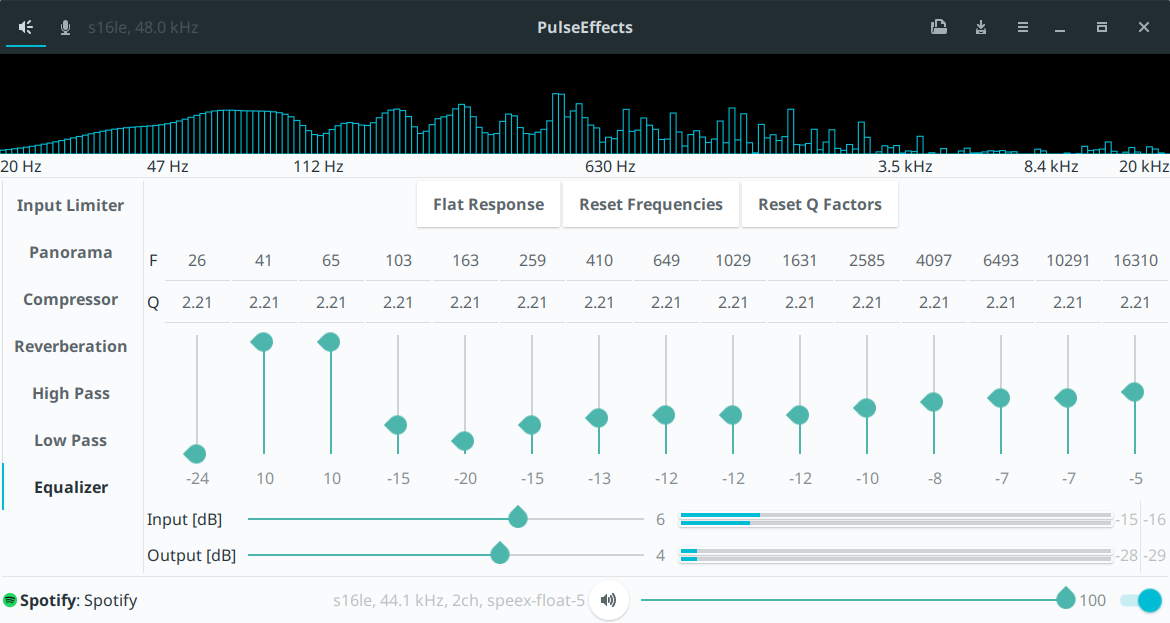
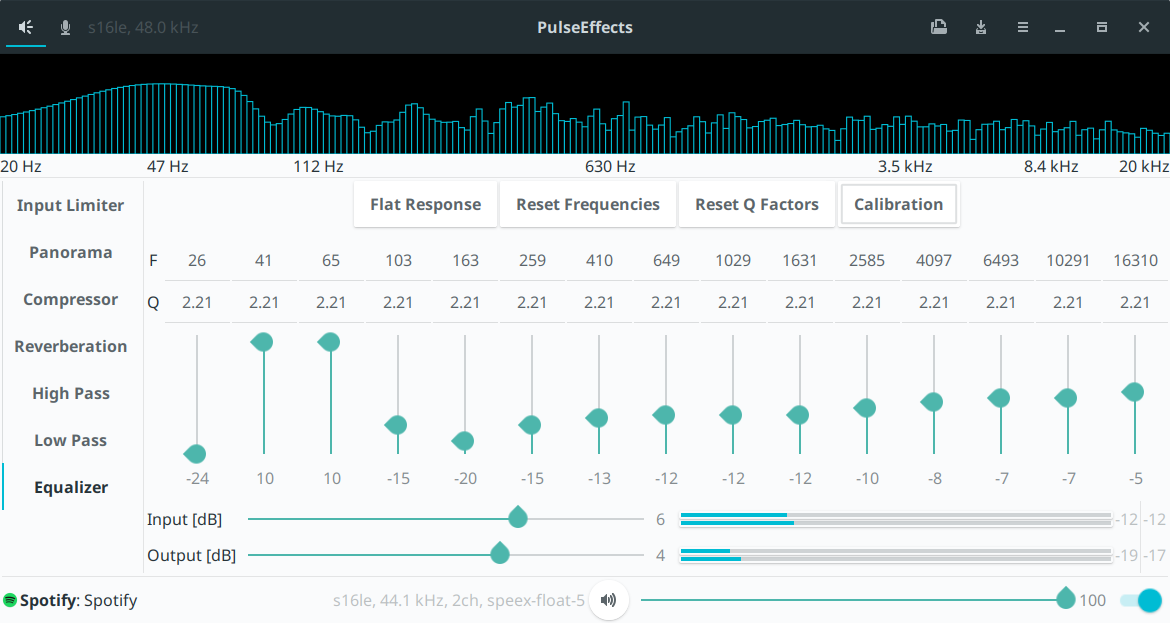
calibration app is now opened from the main PulseEffects window

diff --git a/PulseEffectsCalibration/application.py b/PulseEffectsCalibration/application.py
@@ -5,7 +5,7 @@ import os
 
 import gi
 gi.require_version('Gtk', '3.0')
-from gi.repository import Gio, GLib, Gtk
+from gi.repository import Gtk
 
 from PulseEffectsCalibration.microphone_pipeline import MicrophonePipeline
 from PulseEffectsCalibration.setup_equalizer import SetupEqualizer
@@ -18,11 +18,6 @@ class Application(Gtk.Application):
 
     def __init__(self):
         app_id = 'com.github.wwmm.pulseeffects_calibration'
-
-        GLib.set_application_name('PulseEffectsCalibration')
-        GLib.setenv('PULSE_PROP_media.role', 'production', True)
-        GLib.setenv('PULSE_PROP_application.icon_name',
-                    'pulseeffects_calibration', True)
 
         Gtk.Application.__init__(self, application_id=app_id)
 
@@ -65,10 +60,6 @@ class Application(Gtk.Application):
         self.window = self.builder.get_object('MainWindow')
         self.window.set_titlebar(headerbar)
         self.window.set_application(self)
-
-        # app menu
-
-        self.create_appmenu()
 
         # main window handlers
 
@@ -135,22 +126,6 @@ class Application(Gtk.Application):
         self.ts.set_state('null')
 
         self.quit()
-
-    def create_appmenu(self):
-        menu = Gio.Menu()
-
-        menu.append('About', 'app.about')
-        menu.append('Quit', 'app.quit')
-
-        self.set_app_menu(menu)
-
-        about_action = Gio.SimpleAction.new('about', None)
-        about_action.connect('activate', self.onAbout)
-        self.add_action(about_action)
-
-        quit_action = Gio.SimpleAction.new('quit', None)
-        quit_action.connect('activate', self.on_MainWindow_delete_event)
-        self.add_action(quit_action)
 
     def init_stack_widgets(self):
         stack_switcher = self.builder.get_object('stack_switcher')
@@ -230,16 +205,3 @@ class Application(Gtk.Application):
 
     def on_guideline_position_value_changed(self, obj):
         self.spectrum.set_guideline_position(obj.get_value())
-
-    def onAbout(self, action, parameter):
-        builder = Gtk.Builder()
-
-        builder.add_from_file(self.module_path + '/ui/about.glade')
-
-        dialog = builder.get_object('about_dialog')
-
-        dialog.set_transient_for(self.window)
-
-        dialog.run()
-
-        dialog.destroy()

diff --git a/PulseEffects/sink_input_effects.py b/PulseEffects/sink_input_effects.py
@@ -1,12 +1,13 @@
 # -*- coding: utf-8 -*-
 
 import gi
-gi.require_version('Gst', '1.0')
 import numpy as np
+gi.require_version('Gst', '1.0')
 from gi.repository import Gio, GLib
-from scipy.interpolate import CubicSpline
-from PulseEffects.sink_input_pipeline import SinkInputPipeline
 from PulseEffects.effects_ui_base import EffectsUiBase
+from PulseEffects.sink_input_pipeline import SinkInputPipeline
+from PulseEffectsCalibration.application import Application as Calibration
+from scipy.interpolate import CubicSpline
 
 
 class SinkInputEffects(EffectsUiBase, SinkInputPipeline):
@@ -545,6 +546,10 @@ class SinkInputEffects(EffectsUiBase, SinkInputPipeline):
     def on_eq_reset_qfactors_button_clicked(self, obj):
         self.settings.reset('equalizer-qfactors')
         self.init_eq_freq_and_qfactors()
+
+    def on_eq_calibrate_button_clicked(self, obj):
+        c = Calibration()
+        c.run()
 
     def reset(self):
         self.settings.reset('limiter-user')

diff --git a/setup.py b/setup.py
@@ -24,13 +24,13 @@ for lang in langs:
 
 
 setup(name='PulseEffects',
-      version='2.3.1',
+      version='2.3.2',
       description='Audio effects for Pulseaudio applications',
       url='https://github.com/wwmm/PulseEffects',
       author='wwmm',
       author_email='wellingtonwallace@gmail.com',
       license='GPL3',
       packages=find_packages(),
-      scripts=['pulseeffects', 'pulseeffects_calibration'],
+      scripts=['pulseeffects'],
       include_package_data=True,
       zip_safe=False)

diff --git a/PulseEffectsCalibration/test_signal.py b/PulseEffectsCalibration/test_signal.py
@@ -80,7 +80,7 @@ class TestSignal(GObject.GObject):
         self.spectrum = Gst.ElementFactory.make('spectrum', 'spectrum')
         self.audio_sink = Gst.ElementFactory.make('pulsesink', None)
 
-        # self.audio_sink.set_property('device', 'PulseEffects_apps')
+        self.audio_sink.set_property('device', 'PulseEffects_apps')
         self.audio_sink.set_property('volume', 1.0)
         self.audio_sink.set_property('mute', False)
 
